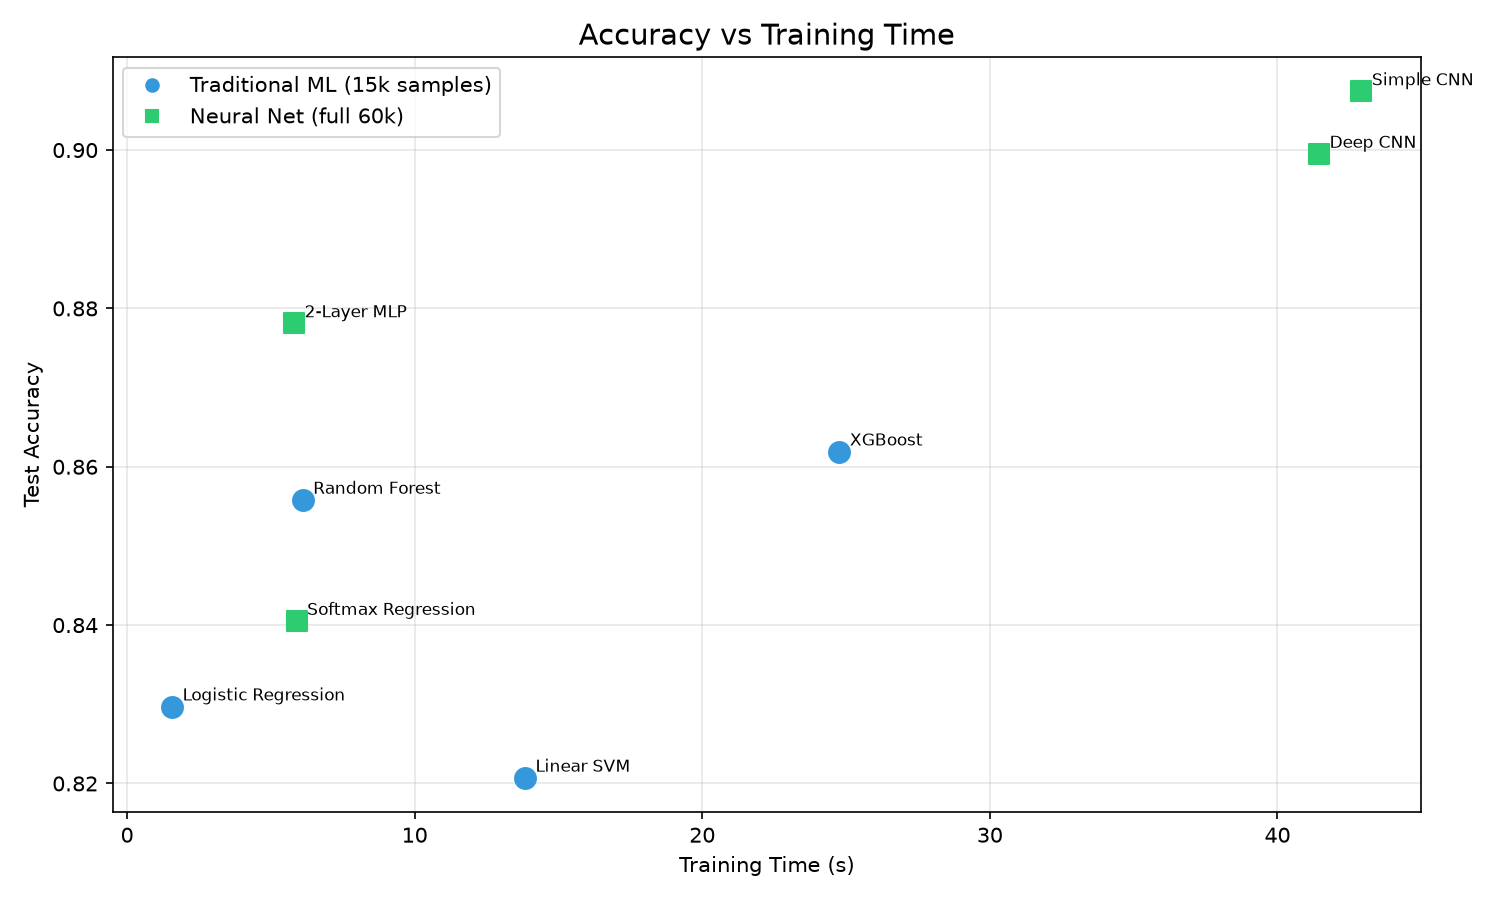
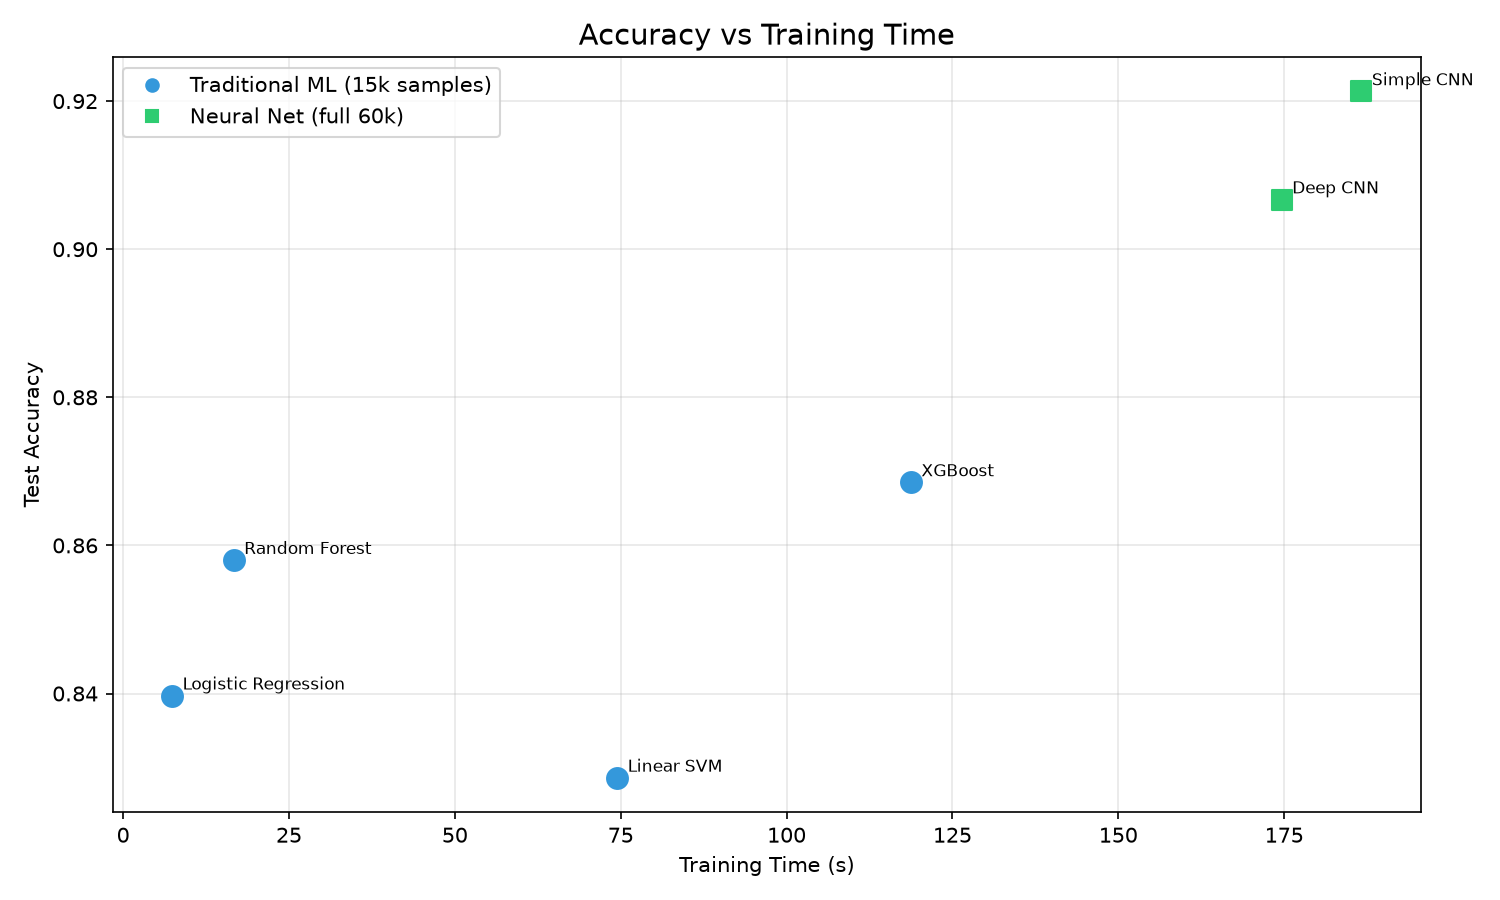
fix

diff --git a/comparative_analysis.py b/comparative_analysis.py
@@ -20,7 +20,8 @@ class_names = [
 ]
 
 print("=" * 75)
-print("COMPARATIVE ANALYSIS — 8 Models on Fashion MNIST")
+n_models = len(results)
+print(f"COMPARATIVE ANALYSIS — {n_models} Models on Fashion MNIST")
 print("=" * 75)
 print(f"{'Rank':<5s} {'Model':<28s} {'Acc':>7s} {'F1':>7s} {'Train(s)':>9s} {'Infer(s)':>9s}")
 print("-" * 65)
@@ -92,7 +93,7 @@ print(f"Saved: comparison_best_cm.png (best: {best['name']})")
 
 # ── Per-class accuracy comparison ───────────────────────────────────
 print("\n----- PER-CLASS ACCURACY (diagonal of confusion matrix / class total) -----")
-header = f"{'Class':<15s}" + "".join(f"{r['name'][:12]:>12s}" for r in results)
+header = f"{'Class':<15s}" + "".join(f"{r['name'][:14]:>14s}" for r in results)
 print(header)
 print("-" * len(header))
 for c in range(10):
@@ -100,7 +101,7 @@ for c in range(10):
     for r in results:
         cm_arr = np.array(r["cm"])
         class_acc = cm_arr[c, c] / cm_arr[c, :].sum()
-        line += f"{class_acc:>12.3f}"
+        line += f"{class_acc:>14.3f}"
     print(line)
 
 print("\nDone.")